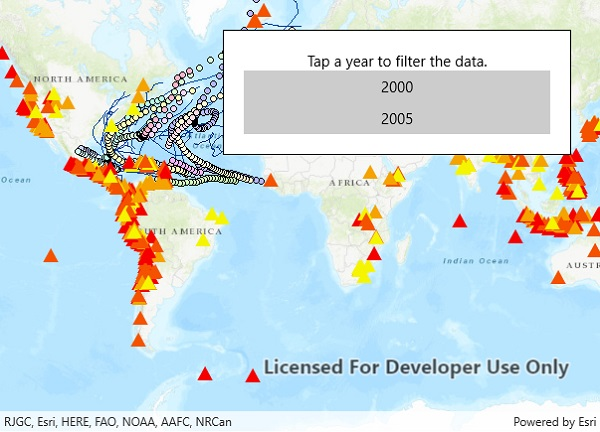
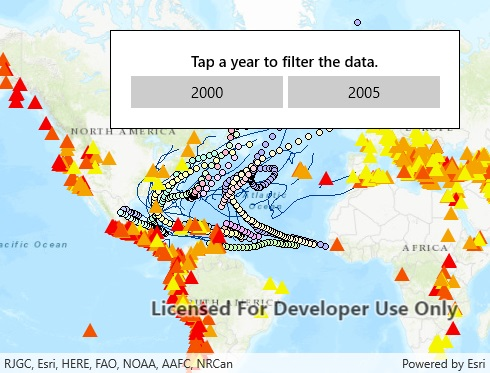
Change time extent
Improvements:

* Made form consistent with other samples (improved alignment & design).
* Light XAML reformatting.

diff --git a/src/UWP/ArcGISRuntime.UWP.Viewer/Samples/MapView/ChangeTimeExtent/ChangeTimeExtent.xaml b/src/UWP/ArcGISRuntime.UWP.Viewer/Samples/MapView/ChangeTimeExtent/ChangeTimeExtent.xaml
@@ -1,33 +1,38 @@
-<UserControl 
+<UserControl
     x:Class="ArcGISRuntime.UWP.Samples.ChangeTimeExtent.ChangeTimeExtent"
     xmlns="http://schemas.microsoft.com/winfx/2006/xaml/presentation"
     xmlns:x="http://schemas.microsoft.com/winfx/2006/xaml"
-    xmlns:mc="http://schemas.openxmlformats.org/markup-compatibility/2006" 
-    xmlns:d="http://schemas.microsoft.com/expression/blend/2008"
-    xmlns:esriUI="using:Esri.ArcGISRuntime.UI.Controls"
-    mc:Ignorable="d" 
-    d:DesignHeight="300" d:DesignWidth="300">
+    xmlns:esriUI="using:Esri.ArcGISRuntime.UI.Controls">
     <Grid>
-        <esriUI:MapView x:Name="MyMapView"/>
+        <esriUI:MapView x:Name="MyMapView" />
         <Border
-            Background="White" 
+            Background="White"
             BorderBrush="Black" BorderThickness="1"
             HorizontalAlignment="Right" VerticalAlignment="Top"
             Margin="30" Padding="20" Width="350">
-            <StackPanel>
-                <TextBlock 
-                    HorizontalAlignment="Center" 
-                    Text="Tap a year to filter the data." />
-                <Button Content="2000" 
-                        HorizontalAlignment="Stretch" 
-                        Click="twoThousand_Click" />
-                <Button Content="2005" 
-                        HorizontalAlignment="Stretch" 
-                        Click="twoThousandFive_Click" />
-            </StackPanel>
+            <Grid>
+                <Grid.ColumnDefinitions>
+                    <ColumnDefinition Width="*" />
+                    <ColumnDefinition Width="*" />
+                </Grid.ColumnDefinitions>
+                <Grid.RowDefinitions>
+                    <RowDefinition Height="Auto" />
+                    <RowDefinition Height="Auto" />
+                </Grid.RowDefinitions>
+                <TextBlock Text="Tap a year to filter the data."
+                           Grid.Row="0" Grid.Column="0" Grid.ColumnSpan="2"
+                           HorizontalAlignment="Center" FontWeight="SemiBold" />
+                <Button Content="2000"
+                        Grid.Row="1" Grid.Column="0"
+                        Margin="0,5,2.5,0"
+                        HorizontalAlignment="Stretch"
+                        Click="TwoThousand_Click" />
+                <Button Content="2005"
+                        Grid.Row="1" Grid.Column="1"
+                        Margin="2.5,5,0,0"
+                        HorizontalAlignment="Stretch"
+                        Click="TwoThousandFive_Click" />
+            </Grid>
         </Border>
     </Grid>
 </UserControl>
-
-
-

diff --git a/src/UWP/ArcGISRuntime.UWP.Viewer/Samples/MapView/ChangeTimeExtent/ChangeTimeExtent.xaml.cs b/src/UWP/ArcGISRuntime.UWP.Viewer/Samples/MapView/ChangeTimeExtent/ChangeTimeExtent.xaml.cs
@@ -49,7 +49,7 @@ namespace ArcGISRuntime.UWP.Samples.ChangeTimeExtent
             MyMapView.Map.OperationalLayers.Add(pointLayer);
         }
 
-        private void twoThousand_Click(object sender, RoutedEventArgs e)
+        private void TwoThousand_Click(object sender, RoutedEventArgs e)
         {
             // Hard-coded start value: January 1st, 2000.
             DateTime start = new DateTime(2000, 1, 1);
@@ -61,7 +61,7 @@ namespace ArcGISRuntime.UWP.Samples.ChangeTimeExtent
             MyMapView.TimeExtent = new TimeExtent(start, end);
         }
 
-        private void twoThousandFive_Click(object sender, RoutedEventArgs e)
+        private void TwoThousandFive_Click(object sender, RoutedEventArgs e)
         {
             // Hard-coded start value: January 1st, 2005.
             DateTime start = new DateTime(2005, 1, 1);
